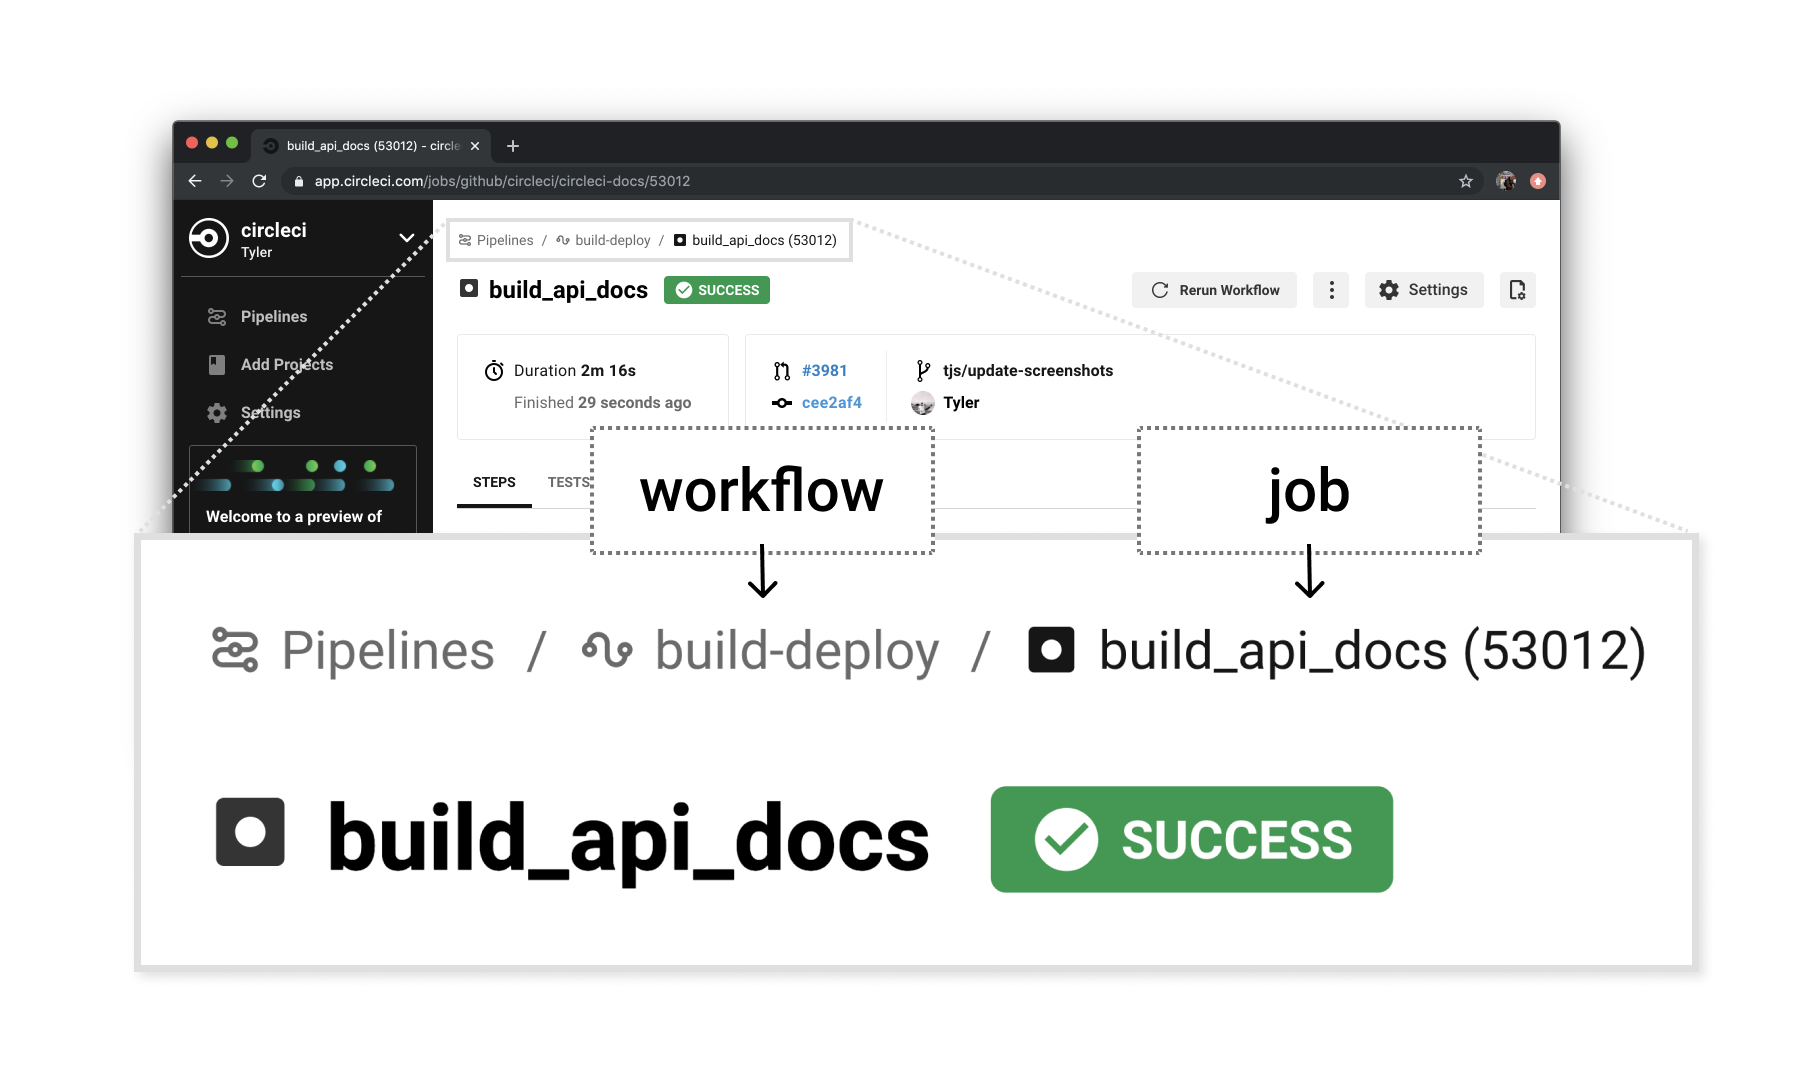
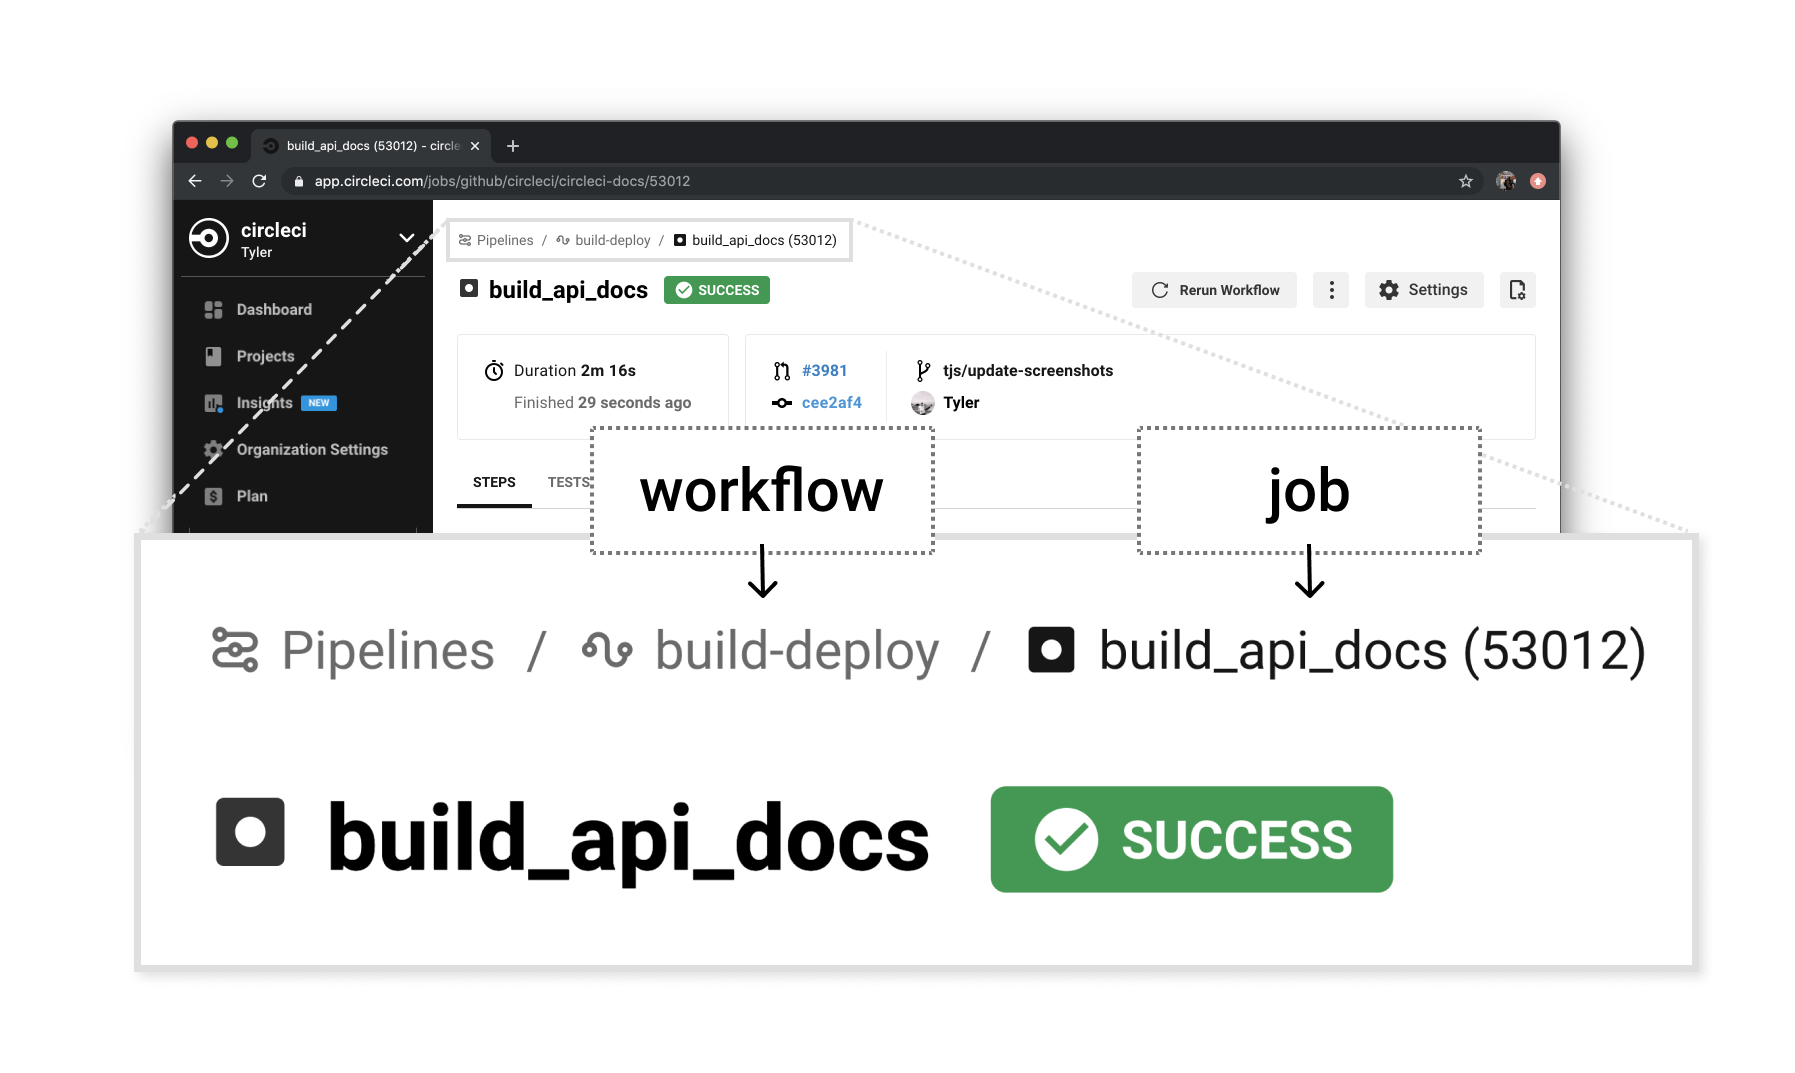
Add: Patched screenshots with newer sidebar.

Changed region(s): [[0.0936, 0.2768, 0.2184, 0.4921]]

diff --git a/jekyll/_cci2/project-build.md b/jekyll/_cci2/project-build.md
@@ -17,12 +17,16 @@ After a software repository on GitHub or Bitbucket is authorized and added as a 
 
 ## Adding Projects
 
-A CircleCI project shares the name of the associated code repository in your VCS (GitHub or Bitbucket). Select **Add Project** from the CircleCI application to enter the Projects dashboard, from where you can set up and follow any projects you have access to.
+A CircleCI project shares the name of the associated code repository in your VCS
+(GitHub or Bitbucket). Select **Projects** from the CircleCI application sidebar to
+enter the Projects dashboard, where you can set up and follow any projects
+you have access to.
 
 On the Projects Dashboard, you can either:
 * _Set Up_ any project that you are the owner of in your VCS 
-* _Follow_ any project in your organization to gain access to its pipelines and to subscribe to [email notifications]({{
-site.baseurl }}/2.0/notifications/) for the project's status.
+* _Follow_ any project in your organization to gain access to its pipelines and
+to subscribe to [email notifications]({{ site.baseurl }}/2.0/notifications/) for
+the project's status.
 
 ## Projects Dashboard
 
@@ -47,11 +51,9 @@ If you do not see your project and it is not currently building on CircleCI, che
 
 ## Viewing and Navigating Pipelines
 
-Your pipeline appears on the [Pipelines page]({{site.baseurl}}/2.0/pipelines) of the CircleCI app when a new commit is pushed to your repository.
-
-You can view workflows or single jobs by expanding the pipeline and clicking in on any workflow or job descriptors.
-
-![Navigating Pipelines]({{ site.baseurl }}/assets/img/docs/navigating_pipelines.png)
+Your pipeline appears on the Dashboard of the CircleCI app when a new commit is
+pushed to your repository. You can view workflows or single jobs by expanding
+the pipeline and clicking in on any workflow or job descriptors.
 
 When viewing a single job in a pipeline, you can use the breadcrumbs at the top
 of the page to navigate back to a job's respective workflow or pipeline.

diff --git a/jekyll/_cci2/pipelines.md b/jekyll/_cci2/pipelines.md
@@ -9,20 +9,21 @@ version:
 - Cloud
 ---
 
-This document provides a summary of the Pipelines page in the CircleCI app and documents some of the changes to the CircleCI user interface.
+This document provides a summary of the Pipelines page in the CircleCI app and
+documents some of the changes to the CircleCI user interface.
 
 ## Overview
 
-You may have noticed some changes to CircleCI's web interface lately. We have some exciting changes that are rolling out regarding how your builds are being grouped and the user interface that presents that information. 
+You may have noticed some changes to CircleCI's web interface lately. We have
+some exciting changes that are rolling out regarding how your builds are being
+grouped and the user interface that presents that information. Let's begin by
+stating what a **Pipeline** is.
 
-Let's begin by stating what a **Pipeline** is.
+**Pipelines** represent the entire configuration that is run when you trigger
+work on your projects that use CircleCI. The entirety of a
+`.circleci/config.yml` file is executed by a pipeline.
 
-Pipelines represent the entire configuration that is run when you trigger work on your projects that use CircleCI. The entirety of a `.circleci/config.yml` file is executed by a pipeline.
-
-Where you once saw the term `Jobs` in the sidebar, you will now see `Pipelines`.
-
-![]({{ site.baseurl }}/assets/img/docs/pipelines-jobs-to-pipelines.png)
-
+When visiting your CircleCI dashboard you will be presented with the recent pipelines that have run in your organization/account.
 
 ## Jobs, Tests, Artifacts
 

diff --git a/jekyll/_cci2/getting-started.md b/jekyll/_cci2/getting-started.md
@@ -67,7 +67,7 @@ You should see your pipeline start to run automatically—and pass! So, what jus
 happened? Click on the green **Success** button on your pipeline to investigate
 the following parts of the run: 
 
-![First Successful Pipeline]( {{ site.baseurl }}/assets/img/docs/getting-started--first-success.png){:.img--bordered}
+![First Successful Pipeline]( {{ site.baseurl }}/assets/img/docs/getting-started--first-success.png)
 
 1. **Which workflows ran?**: After clicking **Success**, we are taken to a page
    listing the jobs that ran. If this is your first build, you probably only ran
@@ -75,7 +75,7 @@ the following parts of the run:
    case, we only ran one job, called `welcome/run`. Click on `welcome/run` and let's
    investigate the steps of our job. 
 
-   ![Investigate build]( {{ site.baseurl }}/assets/img/docs/getting-started--first-success-workflow.png){:.img--bordered}
+   ![Investigate build]( {{ site.baseurl }}/assets/img/docs/getting-started--first-success-workflow.png)
 
 
 1. **Spin up environment:** CircleCI used an [orb](https://circleci.com/orbs) to
